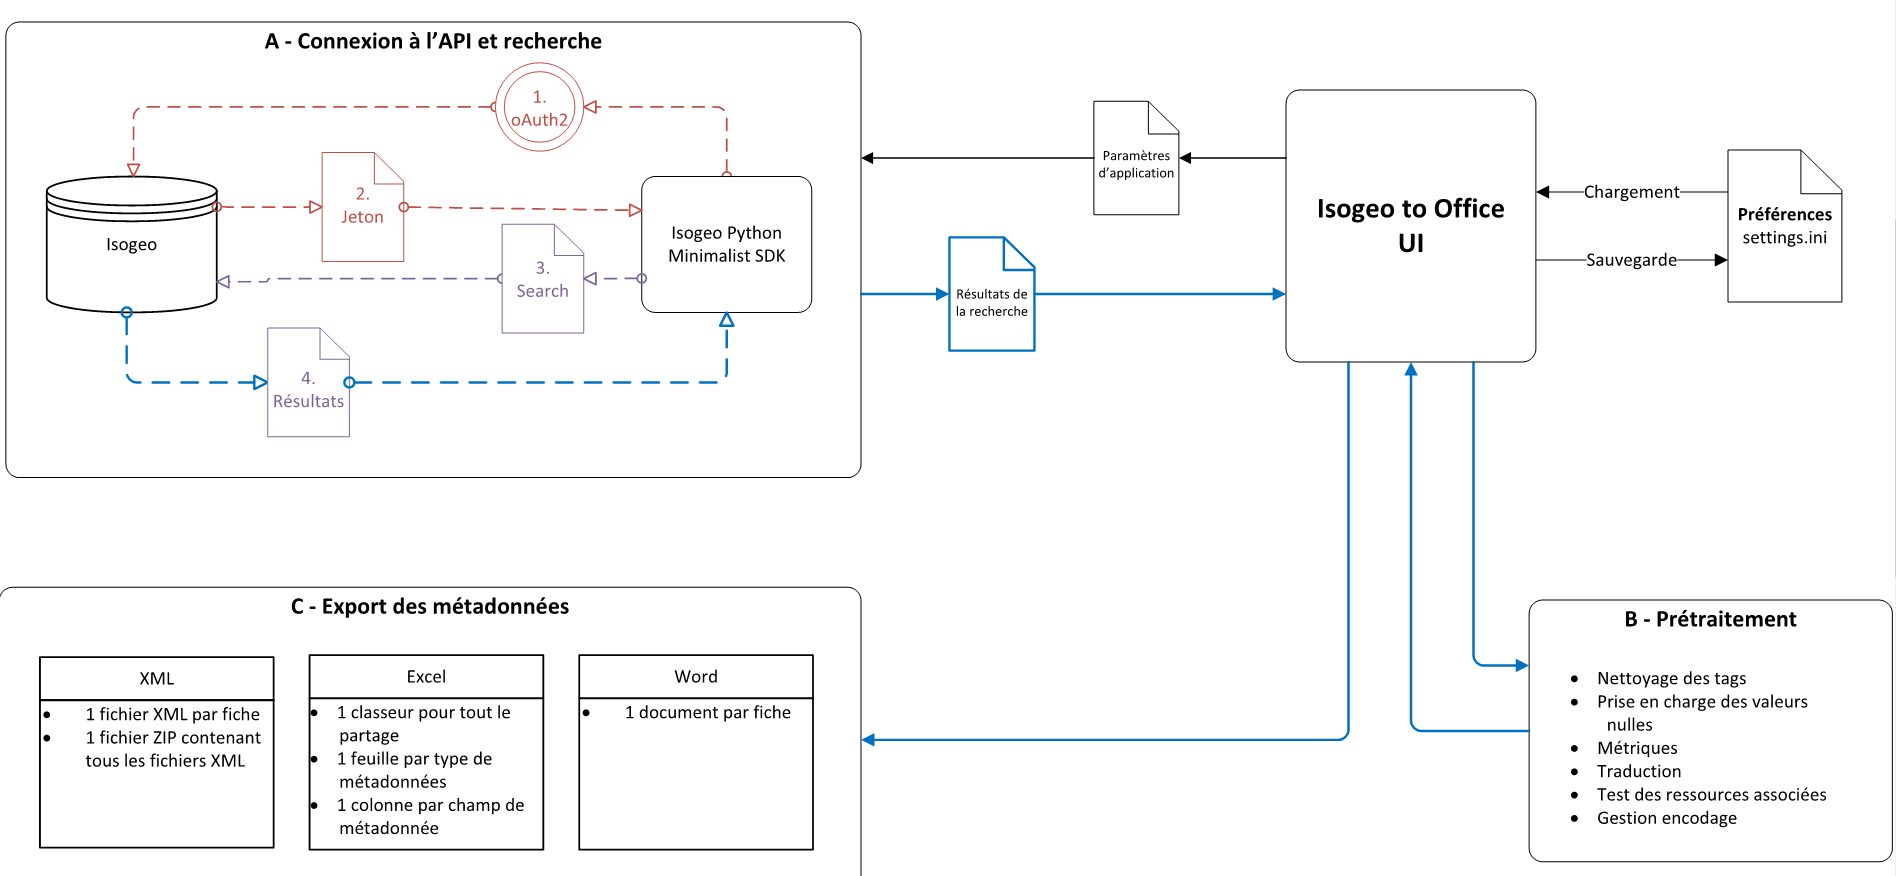
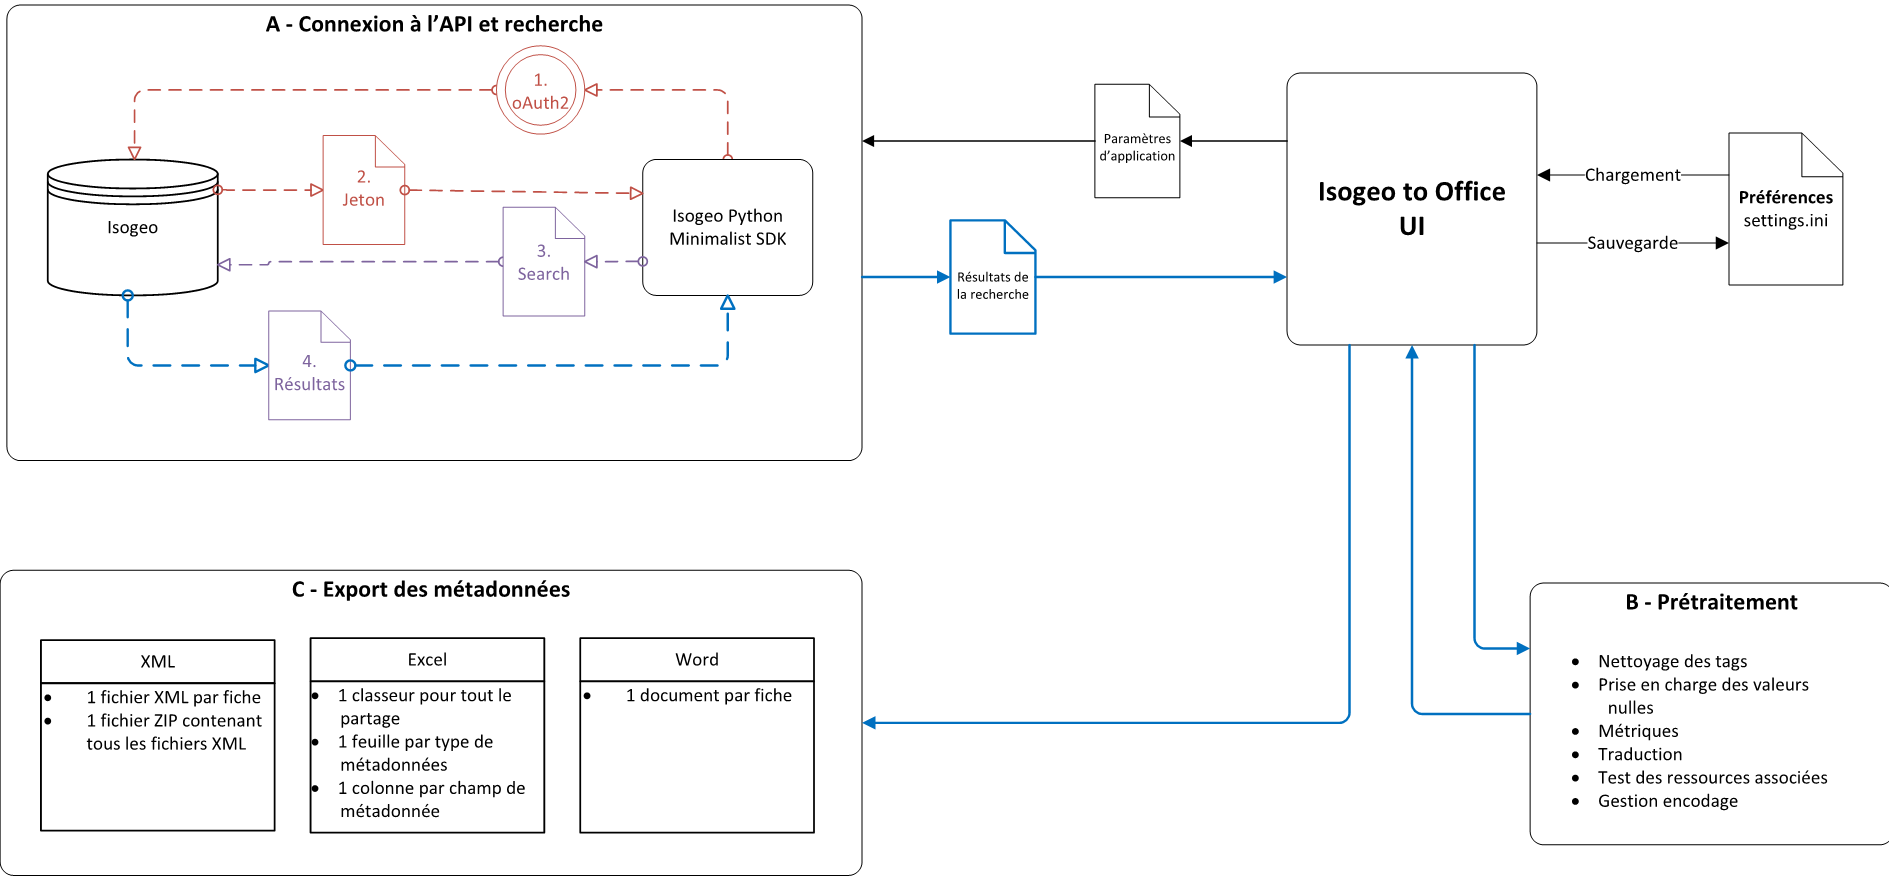
Updates assets/isogeo2office_SchemaTechnicoFonctionnel.png

diff --git a/PREREQUISITES.md b/PREREQUISITES.md
@@ -14,5 +14,9 @@
 * droits d’écriture sur le dossier d’installation et sur celui de sortie \(“output”\) ;
 * une connexion autorisée et configurée \(proxy, pare-feu...\) vers [https://v1.api.isogeo.com/\*](https://v1.api.isogeo.com/) et [https://id.api.isogeo.com/\*](https://v1.api.isogeo.com/)
 
+## Fonctionnement global
 
+A titre indicatif, voici un schéma du déroulé technique de l'application :
+
+![](/assets/isogeo2office_SchemaTechnicoFonctionnel.png)
 
